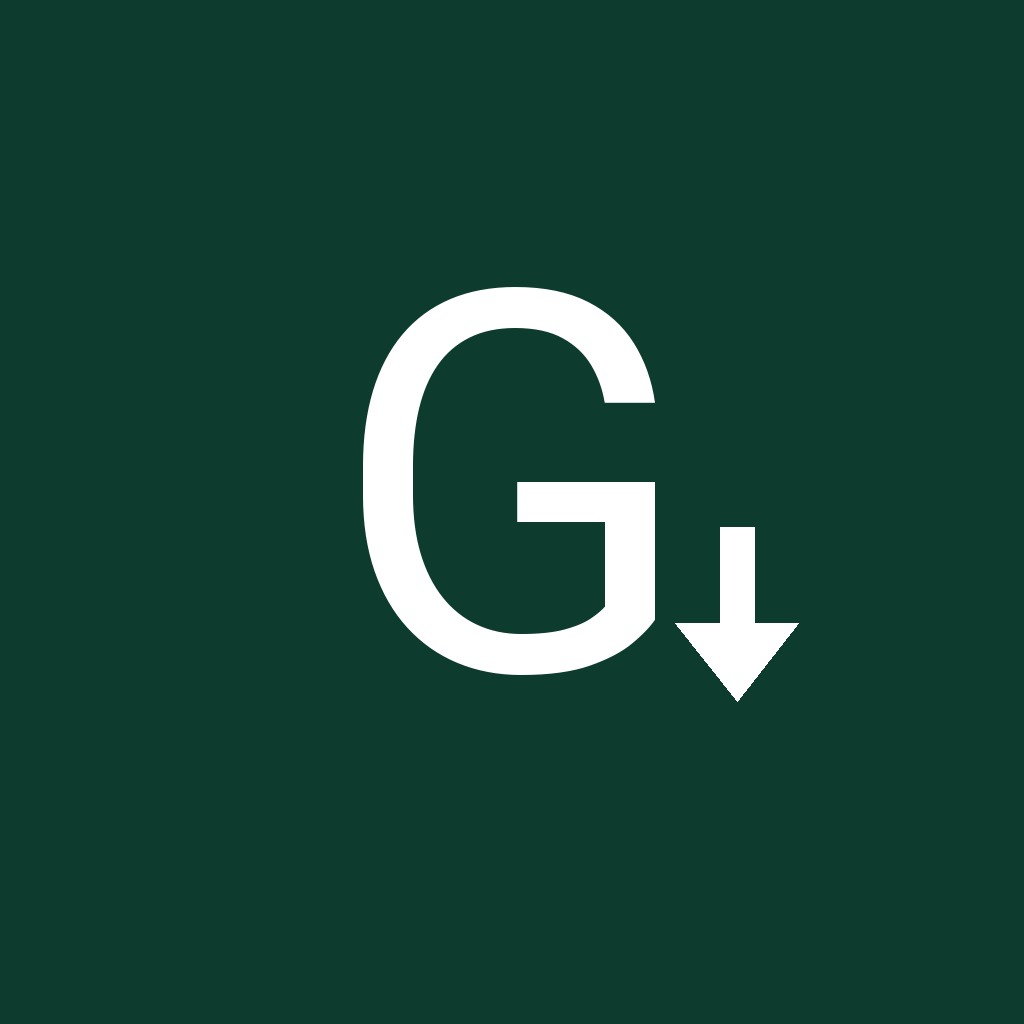
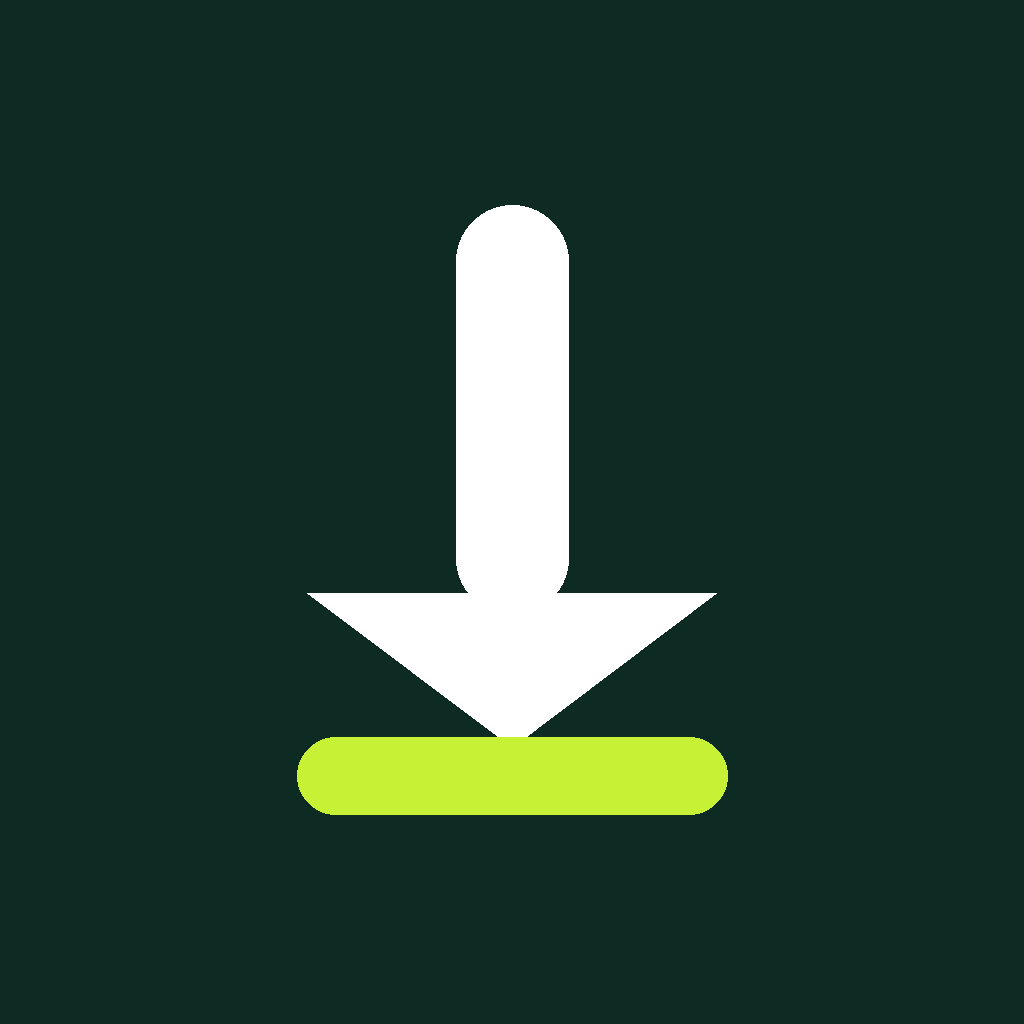
Brand v2: geometric arrow-tray mark (brandkit)

Changed region(s): [[0.2812, 0.1875, 0.7812, 0.8125]]

diff --git a/docs/brand/render.py b/docs/brand/render.py
@@ -1,66 +1,79 @@
 #!/usr/bin/env python3
-"""Grabbit logo renderer (icon-generation skill adapted: Pillow, no Chrome on device)."""
+"""Grabbit logo v2 (brandkit: product-action mark, geometry, no boring letter)."""
 import os
-from PIL import Image, ImageDraw, ImageFont
+from PIL import Image, ImageDraw
 
-OUT = "/data/data/com.termux/files/usr/tmp/opencode/logo"
+OUT = "/data/data/com.termux/files/usr/tmp/opencode/logo2"
 os.makedirs(OUT, exist_ok=True)
 
-BG = (13, 59, 46, 255)      # deep green
-FG = (255, 255, 255, 255)   # white
-BOLD = "/system/fonts/DroidSans-Bold.ttf"
+BG = (13, 43, 34, 255)       # deep green
+FG = (255, 255, 255, 255)    # white
+LIME = (198, 241, 53, 255)   # accent
 
 
-def draw_glyph(draw, s, cx, cy, color):
-    # Big G
-    font = ImageFont.truetype(BOLD, int(s * 0.52))
-    g = "G"
-    bb = draw.textbbox((0, 0), g, font=font)
-    w, h = bb[2] - bb[0], bb[3] - bb[1]
-    draw.text((cx - w / 2 - bb[0], cy - h / 2 - bb[1] - s * 0.03), g, font=font, fill=color)
-    # Down arrow tucked right of the G's bar
-    ax, ay, aw = cx + s * 0.22, cy + s * 0.10, s * 0.06
-    ah = s * 0.17
-    draw.rectangle([ax - aw * 0.28, ay - ah / 2, ax + aw * 0.28, ay + ah * 0.18], fill=color)
-    draw.polygon(
-        [(ax - aw, ay + ah * 0.05), (ax + aw, ay + ah * 0.05), (ax, ay + ah / 2)],
+def rounded_rect(d, box, r, fill):
+    d.rounded_rectangle(box, radius=r, fill=fill)
+
+
+def draw_mark(d, s, color, accent):
+    cx = s / 2
+    # shaft
+    sw = s * 0.11
+    top = s * 0.20
+    mid = s * 0.60
+    rounded_rect(d, [cx - sw / 2, top, cx + sw / 2, mid], r=sw / 2, fill=color)
+    # arrow head
+    hw = s * 0.20
+    d.polygon(
+        [(cx - hw, mid - s * 0.02), (cx + hw, mid - s * 0.02), (cx, mid + s * 0.13)],
         fill=color,
     )
+    # tray
+    ty = s * 0.72
+    th = s * 0.075
+    tw = s * 0.42
+    rounded_rect(d, [cx - tw / 2, ty, cx + tw / 2, ty + th], r=th / 2, fill=accent)
 
 
-def full_bleed(s, bg, glyph_color, glyph=True):
+def full_bleed(s, bg, glyph=True, mono=False):
     img = Image.new("RGBA", (s, s), bg)
     if glyph:
-        draw_glyph(ImageDraw.Draw(img), s, s / 2, s / 2, glyph_color)
+        d = ImageDraw.Draw(img)
+        if mono:
+            draw_mark(d, s, FG, FG)
+        else:
+            draw_mark(d, s, FG, LIME)
     return img
 
 
-def adaptive_fg(s):
-    # 72dp glyph in 108dp viewport => scale 0.667, centered
+def adaptive_fg(s, mono=False):
     img = Image.new("RGBA", (s, s), (0, 0, 0, 0))
     inner = int(s * 0.667)
     off = (s - inner) // 2
     layer = Image.new("RGBA", (s, s), (0, 0, 0, 0))
-    draw_glyph(ImageDraw.Draw(layer), inner, inner / 2, inner / 2, FG)
+    d = ImageDraw.Draw(layer)
+    if mono:
+        draw_mark(d, inner, FG, FG)
+    else:
+        draw_mark(d, inner, FG, LIME)
     img.alpha_composite(layer, (off, off))
     return img
 
 
-def adaptive_bg(s):
-    return Image.new("RGBA", (s, s), BG)
-
-
 S = 1024
-full_bleed(S, BG, FG).save(f"{OUT}/icon-1024.png")
+full_bleed(S, BG).save(f"{OUT}/icon-1024.png")
 adaptive_fg(S).save(f"{OUT}/adaptive-fg-1024.png")
-adaptive_bg(S).save(f"{OUT}/adaptive-bg-1024.png")
-# monochrome: white glyph on transparent (themed icons tint it)
+Image.new("RGBA", (S, S), BG).save(f"{OUT}/adaptive-bg-1024.png")
 mono = Image.new("RGBA", (S, S), (0, 0, 0, 0))
-d = ImageDraw.Draw(mono)
-draw_glyph(d, int(S * 0.667), S / 2, S / 2, FG)
+draw_mark(ImageDraw.Draw(mono), int(S * 0.667), FG, FG)
+mono2 = Image.new("RGBA", (S, S), (0, 0, 0, 0))
+d = ImageDraw.Draw(Image.new("RGBA", (S, S), (0, 0, 0, 0)))
+# center mono
+tmp = Image.new("RGBA", (S, S), (0, 0, 0, 0))
+draw_mark(ImageDraw.Draw(tmp), int(S * 0.667), FG, FG)
+off = (S - int(S * 0.667)) // 2
+mono.alpha_composite(tmp, (off, off))
 mono.save(f"{OUT}/monochrome-1024.png")
-# legacy mipmaps (foreground composited over bg)
-DPI = {"xxxhdpi": 192, "xxhdpi": 144, "xhdpi": 96, "hdpi": 72, "mdpi": 48}
-for name, px in DPI.items():
-    full_bleed(px, BG, FG).save(f"{OUT}/mipmap-{name}.png")
+for name, px in {"xxxhdpi": 192, "xxhdpi": 144, "xhdpi": 96, "hdpi": 72, "mdpi": 48}.items():
+    full_bleed(px, BG).save(f"{OUT}/mipmap-{name}.png")
 print("done", OUT)
